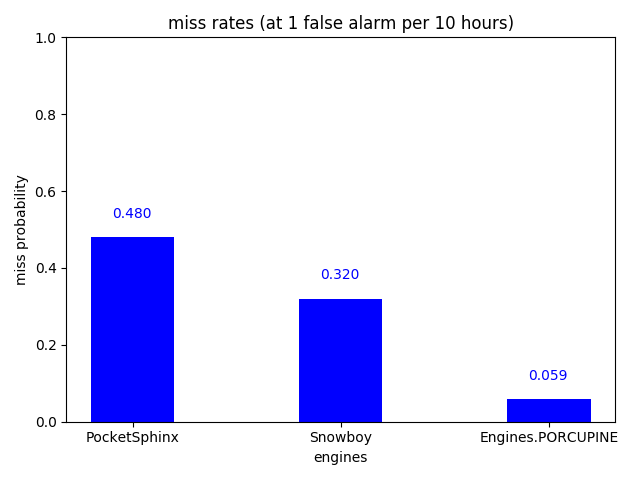
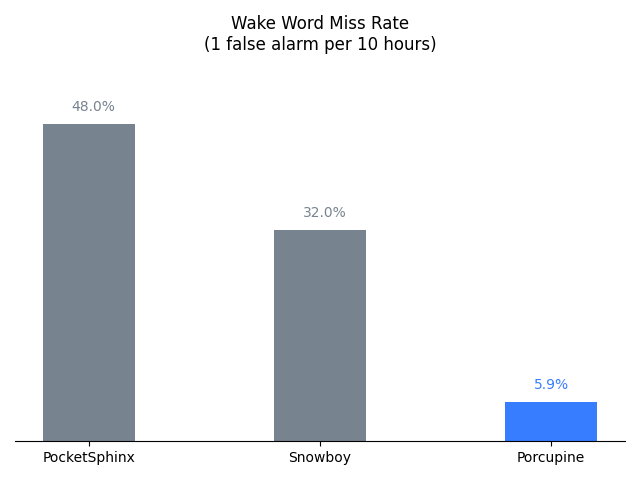
updated plots

diff --git a/plot.py b/plot.py
@@ -22,6 +22,9 @@ KEYWORD_COLORS = {
     'view glass': 'y'
 }
 
+COLOR = (119 / 255, 131 / 255, 143 / 255)
+PV_COLOR = (55 / 255, 125 / 255, 255 / 255)
+
 
 def plot_accuracy_chart(target_false_alarm_per_hour=0.1):
     engine_miss_rates = dict([(x.value, 0) for x in Engines])
@@ -40,28 +43,39 @@ def plot_accuracy_chart(target_false_alarm_per_hour=0.1):
                     else:
                         miss_rates.append(miss_rate)
                         false_alarms_per_hour.append(false_alarm)
-                engine_miss_rates[engine] +=\
+                engine_miss_rates[engine] += \
                     np.interp(target_false_alarm_per_hour, false_alarms_per_hour, miss_rates) / len(KEYWORDS)
-
-    fig, ax = plt.subplots()
 
     engine_miss_rates = sorted(engine_miss_rates.items(), key=lambda x: x[1], reverse=True)
     engines = [x[0] for x in engine_miss_rates]
-    miss_rates = [x[1] for x in engine_miss_rates]
+    miss_rates = [x[1] * 100 for x in engine_miss_rates]
+    indices = np.arange(len(engine_miss_rates))
 
-    index = np.arange(len(engine_miss_rates))
+    fig, ax = plt.subplots()
 
-    ax.bar(index, miss_rates, 0.4, color='b')
+    for spine in plt.gca().spines.values():
+        if spine.spine_type != 'bottom':
+            spine.set_visible(False)
 
-    for i in index:
-        ax.text(i - 0.1, engine_miss_rates[i][1] + 0.05, '%.2f' % engine_miss_rates[i][1], color='b')
+    for i in indices:
+        ax.bar(
+            indices[i],
+            miss_rates[i],
+            0.4,
+            color=PV_COLOR if engines[i] == Engines.PORCUPINE.value else COLOR)
 
-    ax.set_xlabel('engines')
-    ax.set_ylabel('miss probability')
-    ax.set_ylim(0, 1)
-    ax.set_title('miss rates (at 1 false alarm per 10 hours)')
-    ax.set_xticks(index)
+    for i in indices:
+        ax.text(
+            i - 0.075,
+            miss_rates[i] + 2,
+            '%.1f%%' % miss_rates[i],
+            color=PV_COLOR if engines[i] == Engines.PORCUPINE.value else COLOR)
+
+    ax.set_title('Wake Word Miss Rate\n(1 false alarm per %d hours)' % int(1 / target_false_alarm_per_hour))
+    ax.set_ylim(0, max(miss_rates) + 10)
+    ax.set_xticks(indices)
     ax.set_xticklabels(engines)
+    plt.tick_params(axis='y', which='both', left=False, right=False, labelleft=False)
 
     fig.tight_layout()
     plt.show()
@@ -69,6 +83,10 @@ def plot_accuracy_chart(target_false_alarm_per_hour=0.1):
 
 def plot_cpu_chart():
     fig, ax = plt.subplots()
+
+    for spine in plt.gca().spines.values():
+        if spine.spine_type != 'bottom':
+            spine.set_visible(False)
 
     engine_cpu_usage = [
         (Engines.POCKET_SPHINX.value, 31.75),
@@ -78,20 +96,27 @@ def plot_cpu_chart():
 
     engines = [x[0] for x in engine_cpu_usage]
     cpu_usages = [x[1] for x in engine_cpu_usage]
+    indices = np.arange(len(engine_cpu_usage))
 
-    index = np.arange(len(engine_cpu_usage))
+    for i in indices:
+        ax.bar(
+            indices[i],
+            cpu_usages[i],
+            0.4,
+            color=PV_COLOR if engines[i] == Engines.PORCUPINE.value else COLOR)
 
-    ax.bar(index, cpu_usages, 0.4, color='g')
+    for i in indices:
+        ax.text(
+            i - 0.075,
+            cpu_usages[i] + 1,
+            '%.1f%%' % cpu_usages[i],
+            color=PV_COLOR if engines[i] == Engines.PORCUPINE.value else COLOR)
 
-    for i in index:
-        ax.text(i - 0.1, engine_cpu_usage[i][1] + 1, '%.2f' % engine_cpu_usage[i][1], color='g')
-
-    ax.set_xlabel('engines')
-    ax.set_ylabel('CPU usage %')
-    ax.set_ylim(0, 40)
-    ax.set_title('average CPU usage on Raspberry Pi 3')
-    ax.set_xticks(index)
+    ax.set_ylim(0, max(cpu_usages) + 10)
+    ax.set_title('CPU usage on Raspberry Pi 3')
+    ax.set_xticks(indices)
     ax.set_xticklabels(engines)
+    plt.tick_params(axis='y', which='both', left=False, right=False, labelleft=False)
 
     fig.tight_layout()
     plt.show()
